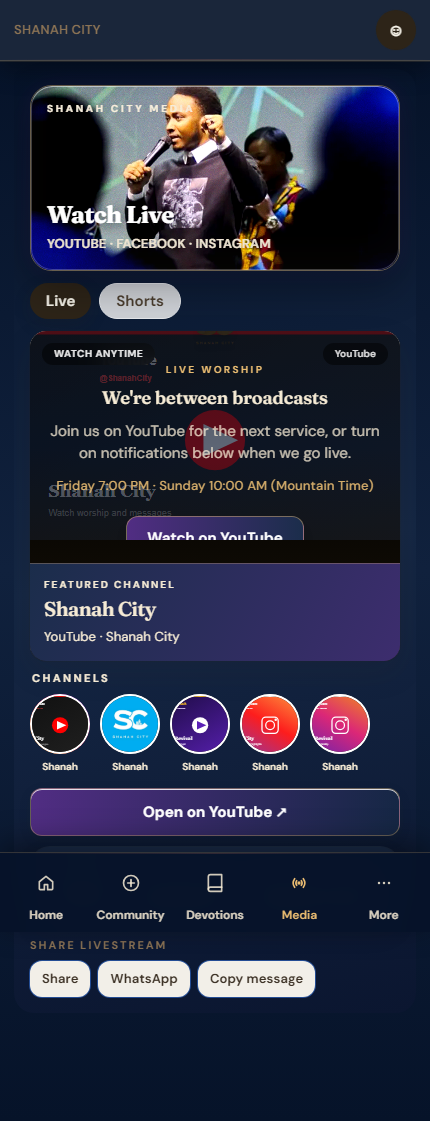
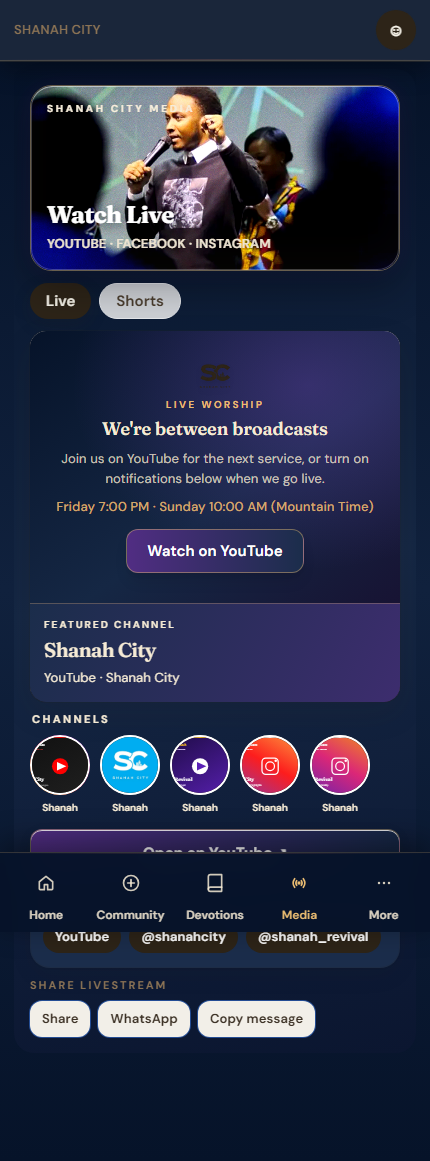
chore(worship-v4): refresh Live mobile screenshots with offline QA checks.
Assert branded between-broadcasts copy, platform CTA, and non-overlapping stage badges before capture.

diff --git a/e2e/premium-v4-worship-media-mobile.spec.ts b/e2e/premium-v4-worship-media-mobile.spec.ts
@@ -33,6 +33,28 @@ test.describe("Premium V4 worship & media mobile screenshots", () => {
       await page.waitForSelector(".sc-v4-media", { timeout: 30_000 });
       await waitForImages(page, ".sc-v4-media", 0);
       await assertNoHorizontalOverflow(page);
+      await expect(page.getByText("We're between broadcasts")).toBeVisible();
+      await expect(page.getByRole("link", { name: /Watch on (YouTube|Facebook)/i })).toBeVisible();
+      const badgesOverlap = await page.evaluate(() => {
+        const badges = Array.from(
+          document.querySelectorAll(".media-live-v4-metadata, .overflow-hidden.rounded-2xl span.rounded-full"),
+        )
+          .filter((el) => el.getBoundingClientRect().width > 0)
+          .map((el) => el.getBoundingClientRect());
+        for (let i = 0; i < badges.length; i++) {
+          for (let j = i + 1; j < badges.length; j++) {
+            const a = badges[i];
+            const b = badges[j];
+            const overlap =
+              a.left < b.right && a.right > b.left && a.top < b.bottom && a.bottom > b.top;
+            const area = Math.min(a.right, b.right) - Math.max(a.left, b.left);
+            const height = Math.min(a.bottom, b.bottom) - Math.max(a.top, b.top);
+            if (overlap && area > 8 && height > 8) return true;
+          }
+        }
+        return false;
+      });
+      expect(badgesOverlap, "live stage badges must not overlap").toBe(false);
       await assertNoRuntimeErrors(page, pageErrors, consoleErrors);
 
       await page.screenshot({
